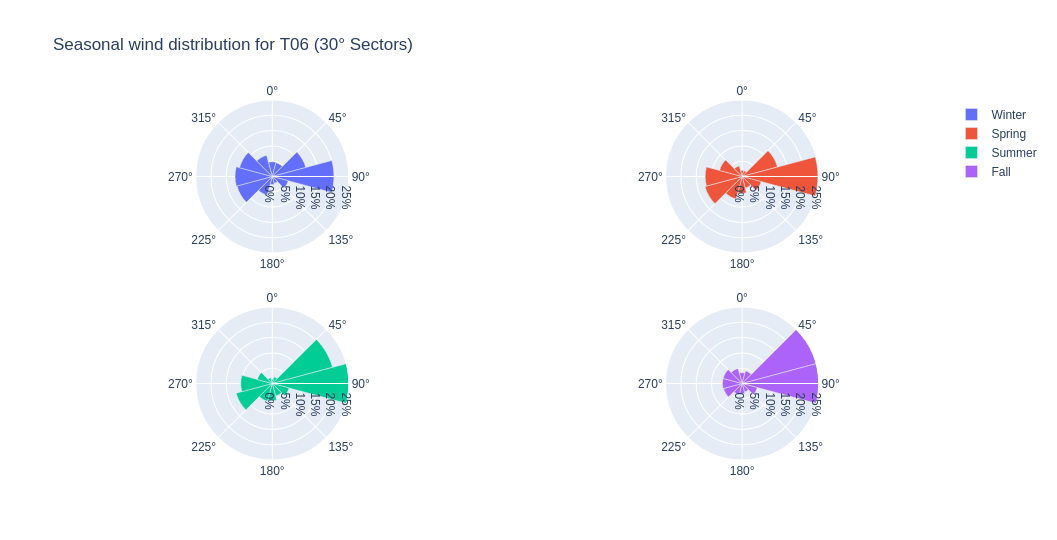
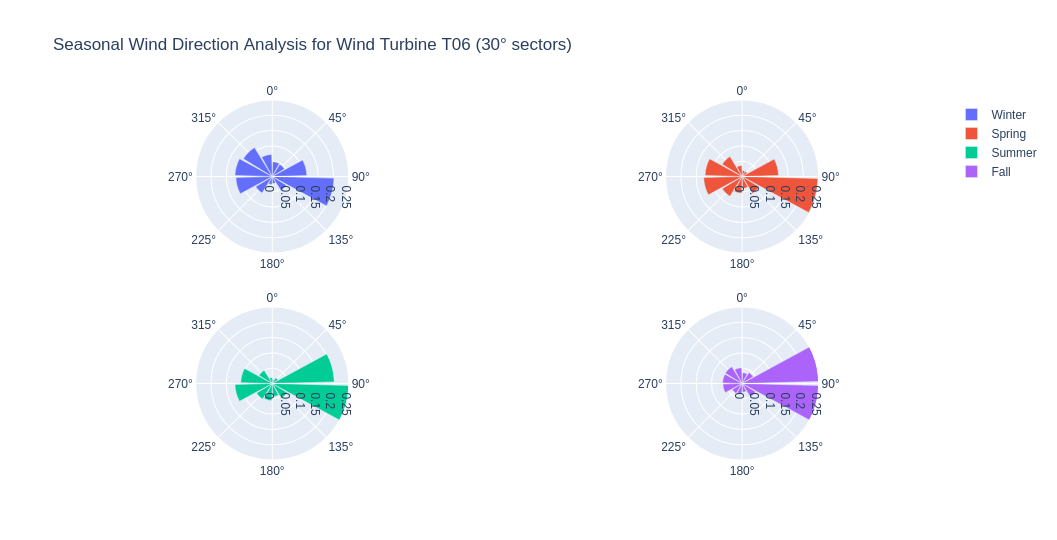
fix seasonal graph

diff --git a/main.py b/main.py
@@ -188,7 +188,7 @@ def _(mo):
         r"""
         # Task 5 - Seasonal Wind Direction Analysis for Wind Turbine T06
 
-        Your objective is to create four polar bar plots, one for each season (Winter, Spring, Summer, and Fall), showing the frequency distribution of wind direction for wind turbine T06.
+        Your objective is to create four polar bar plots, one for each season (Winter, Spring, Summer, and Fall), showing the frequency distribution of wind direction for wind turbine T06. Use 30° bins for the wind direction.
 
         Output exemple:
         """
